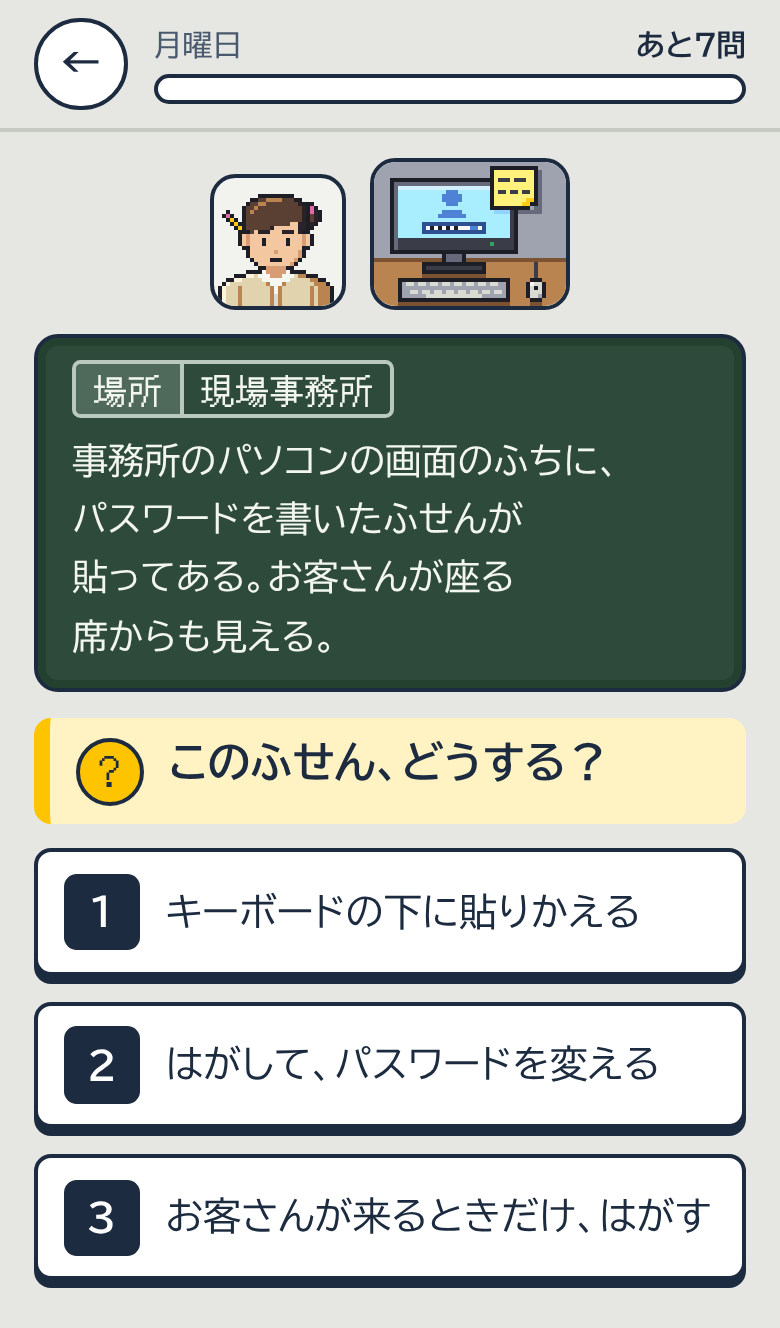
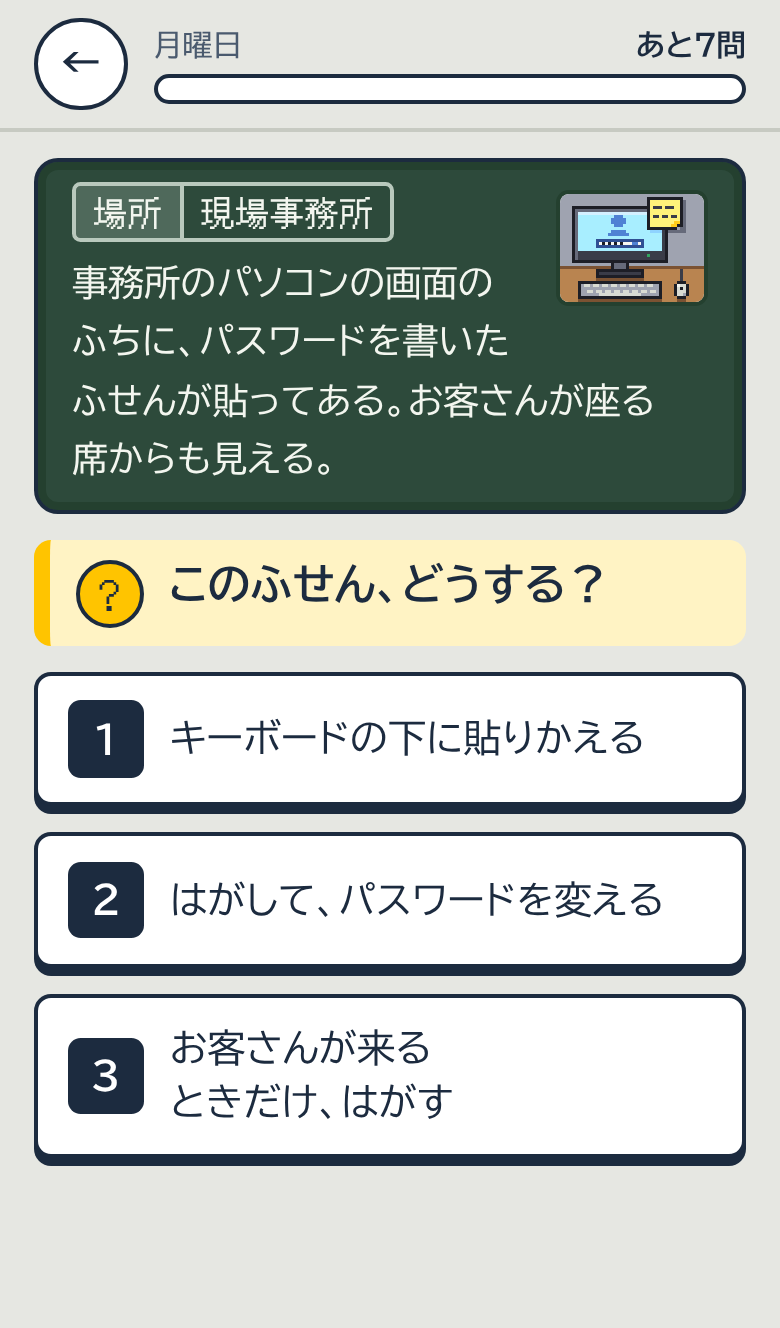
README のいちばん上に動画のリンクの場所を足し、画像を今の画面で撮り直す（AIの宮下さんに聞く画面を足して4枚に）
Claude-Session: https://claude.ai/code/session_01GBUWevQ3ZbN9e41q4JbzGm

diff --git a/README.md b/README.md
@@ -2,10 +2,13 @@
 
 **現場の情報を守る、5分の練習**
 
+**デモ動画**：（ここにリンク）
+
 <p>
-  <img src="docs/images/home.png" width="200" alt="ホーム：次にやることと、5日間の見回り">
-  <img src="docs/images/question.png" width="200" alt="問題の画面：月曜日の1問">
-  <img src="docs/images/evening.png" width="200" alt="最後の日の夕方：守るべき情報が、社外に渡りました">
+  <img src="docs/images/home.png" width="180" alt="ホーム：次にやることと、5日間の見回り">
+  <img src="docs/images/question.png" width="180" alt="問題の画面：月曜日の1問">
+  <img src="docs/images/ai.png" width="180" alt="AIの宮下さん：わからないところを聞く（claude.ai の版）">
+  <img src="docs/images/evening.png" width="180" alt="最後の日の夕方：守るべき情報が、社外に渡りました">
 </p>
 
 安全衛生を体で覚える現場のやり方で、情報もれと AI への任せ方を練習するアプリです。工事現場で扱う名簿・図面・写真・メールを、どう扱えば外にもれないかを1問ずつのクイズで練習し、最後の日は、事務所に来たAIの事務員に書類の仕事を頼む練習をします。
